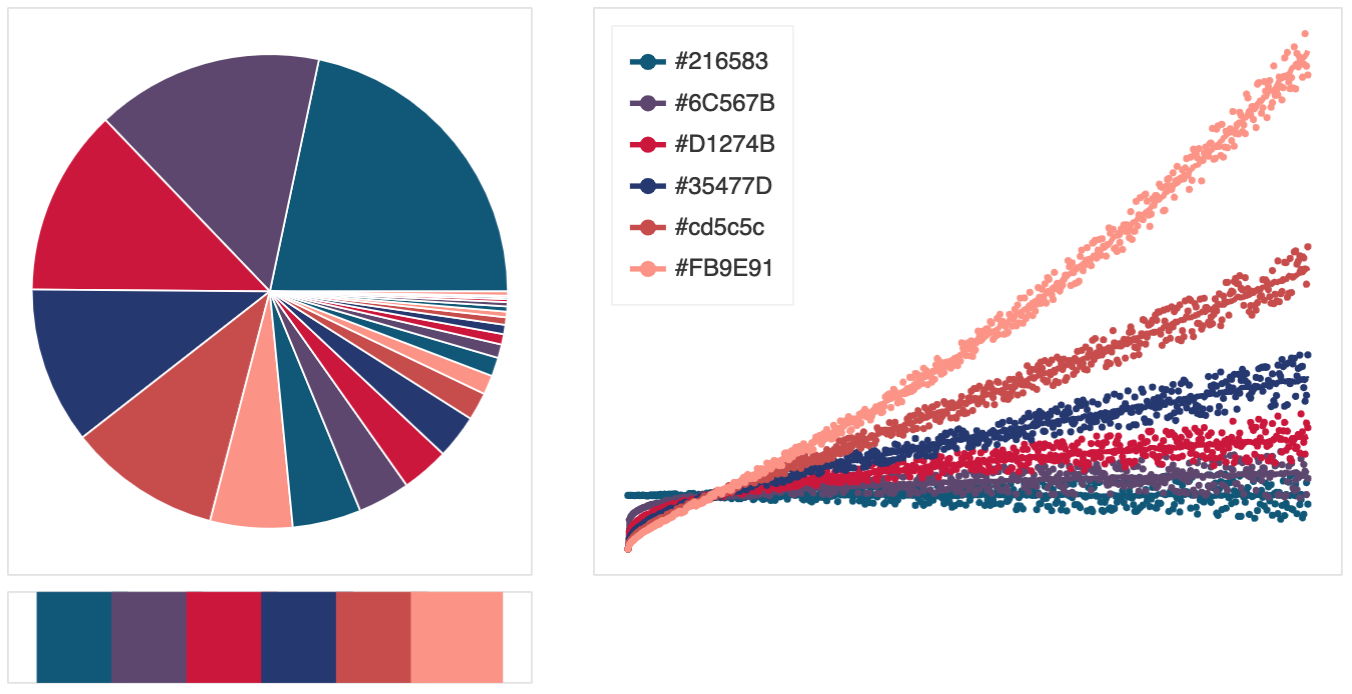
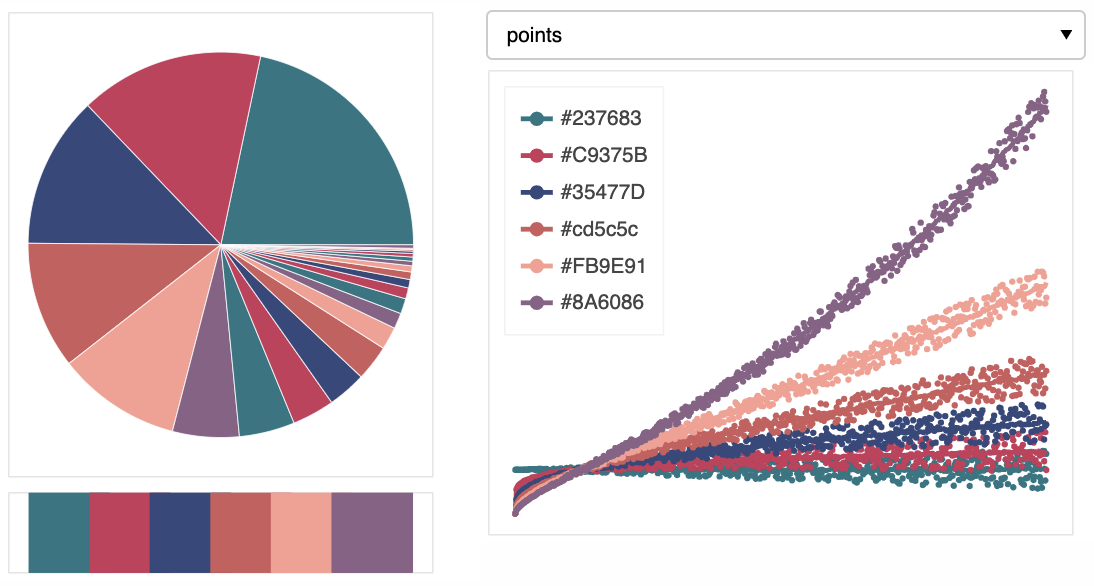
finishing up for release 1.00

diff --git a/chromatose/palettes.py b/chromatose/palettes.py
@@ -24,11 +24,13 @@ crepuscule = ['#3c8588',
              '#dbad4e',
              '#efedce',]
 
-juniper = ['#b1516a',
-            '#af9c85',
-            '#bbc9a2',
-            '#ebd5a2',
-            '#595353']
+juniper = ['#237683',
+            '#C9375B',
+            '#35477D',
+            '#cd5c5c',
+            '#FB9E91',
+            '#8A6086',
+           ]
 
 plath = ['#30343f',
            '#a84b43',
@@ -89,13 +91,17 @@ gremlin = ['#3a5b84',
            '#836a00',
            '#002c59']
 
-pollen = ["#fB9e91",
-          "#461a84",
-          "#f5f0e3",
-          "#b4b6d8",
-          '#ffd082',
-#         '#9dab86',
-         ]
+pollen = ['#fB9e91',
+          '#604d89',
+          '#f5f0e3',
+          '#b4b6d8',
+          '#ffd082']
+
+bollen = ['#eB8e81',
+        '#503d79',
+        '#c1b6b2',
+        '#a9b0d0',
+        '#efc072']
 
 medium = ['#e3a201',
           '#6762ab',
@@ -116,13 +122,22 @@ polya = ["#A43955",
          "#738C79",
          "#ECBE13"]
 
-ostrich = [ # turn alpha on
-    "navy",
-    "orangered",
-    "teal",
-    "midnightblue",
-    '#d45d79',
-    ]
+ostrich = ['#ee5500', 'teal', 'midnightblue', '#d45d79'] # TURN ALPHA ON
+
+quinone =  [
+            "#991a40",
+            "#1c0517",
+            "#9db0bb",
+            "#ae3f03",
+            (210, 150, 160)
+           ]
+
+quinoline = [
+            "#B22c56",
+            "#2c1527",
+            "#ca6f13",
+            (225, 170, 170),
+           ]
 
 fraiche = ['#472b62',
            "#f5f0e3",
@@ -521,14 +536,11 @@ yoshi = ["#111129",
          "#cd355c",
          "#d0e44e"]
 
-phoebe = ["#f71237",
-          "#1c0517",
-          "#8ba794",
-          "#fe5f8e",
-          "#fde4d1",
-          "#991a40",
-          "#eeecec",
-         ]
+phoebe = ['#1c0517',
+          '#8ba794',
+          '#ee5f8e',
+          '#fde4d1',
+          '#991a40',]
 
 pam = ["#634131",
        "#448168",
@@ -5873,6 +5885,8 @@ all_palettes = ["selah",
                 "heliotrope",
                 "roosh",
                 "seafare",
+                "quinone",
+                "quinoline",
                 "perl",
                 "perl256",
                 "orb",

diff --git a/chromatose/utils.py b/chromatose/utils.py
@@ -218,6 +218,8 @@ palette_dict = {
     "moonbow": moonbow,
     "peanuts": peanuts,
     "naval": naval,
+    "quinone":quinone,
+    "quinoline":quinoline,
     "indomie": indomie,
     "maggie": maggie,
     "orb": orb,
